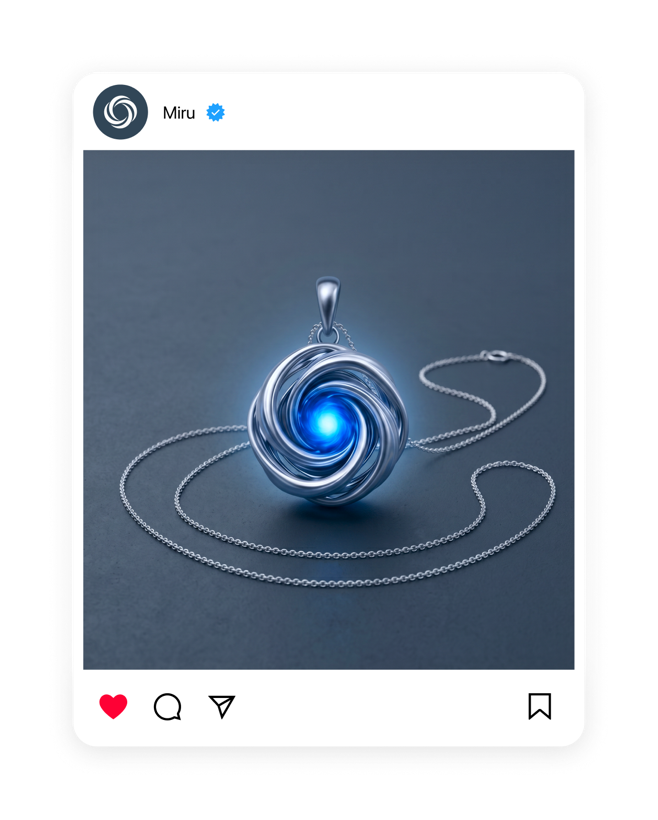
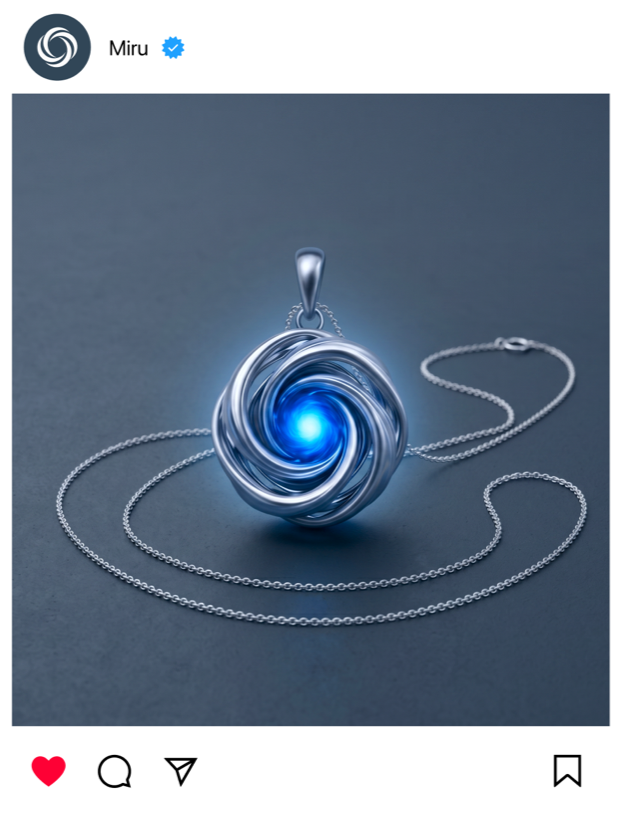
Miru fan: softer layered shadow, smoother transform-only animation
Re-export cards without the baked Figma shadow; add a soft two-layer CSS
drop-shadow that follows the rounded shape and lifts on hover. Animate via
transform (cqw/cqh offsets) for GPU-smooth motion with a staggered cascade.

diff --git a/styles.css b/styles.css
@@ -1585,11 +1585,12 @@ textarea:focus-visible {
 @keyframes mlogo-spin { from { transform: rotate(0); } to { transform: rotate(360deg); } }
 @media (prefers-reduced-motion: reduce) { .mlogo__mark { animation: none; } }
 
-/* ===== Miru: веер постов — при наведении раскладывается в ряд ===== */
+/* ===== Miru: веер постов — при наведении плавно раскладывается в ряд ===== */
 .fan {
   position: relative;
   margin-top: clamp(28px, 4vw, 48px);
   aspect-ratio: 1872 / 1219;
+  container-type: size; /* для cqw/cqh — сдвиги относительно блока */
 }
 .fan__frame {
   position: absolute; inset: 0; width: 100%; height: 100%;
@@ -1597,25 +1598,41 @@ textarea:focus-visible {
 }
 .fan__card {
   position: absolute;
-  width: 33.6%; height: 64.32%;
+  left: 50%; top: 50%;
+  width: 26.11%; height: 52.82%;
   transform-origin: 50% 50%;
-  transition: left 0.7s var(--ease), top 0.7s var(--ease), transform 0.7s var(--ease);
-  will-change: left, top, transform;
+  /* мягкая многослойная тень, повторяющая скруглённую форму карточки */
+  filter:
+    drop-shadow(0 1px 3px rgba(22, 32, 48, 0.10))
+    drop-shadow(0 16px 34px rgba(22, 32, 48, 0.20));
+  /* анимируем только transform и filter — максимально плавно (GPU) */
+  transition: transform 0.9s var(--ease), filter 0.9s var(--ease);
+  will-change: transform, filter;
 }
-/* исходный веер (как в макете): -15° / 0° / +15°, со смещением */
-.fan__card--a { left: 40.19%; top: 50%; transform: translate(-50%, -50%) rotate(-15deg); z-index: 1; }
-.fan__card--b { left: 49.98%; top: 50%; transform: translate(-50%, -50%) rotate(0deg); z-index: 2; }
-.fan__card--c { left: 59.53%; top: 57.19%; transform: translate(-50%, -50%) rotate(15deg); z-index: 3; }
-/* наведение → ровный ряд */
+/* исходный веер (как в макете): -15° / 0° / +15°, со смещением от центра */
+.fan__card--a { transform: translate(calc(-50% - 9.81cqw), -50%) rotate(-15deg); z-index: 1; }
+.fan__card--b { transform: translate(-50%, -50%) rotate(0deg); z-index: 2; }
+.fan__card--c { transform: translate(calc(-50% + 9.53cqw), calc(-50% + 7.19cqh)) rotate(15deg); z-index: 3; }
+/* наведение → ровный ряд, карточки чуть «приподнимаются» (глубже тень) */
+.fan:hover .fan__card,
+.fan:focus-within .fan__card {
+  filter:
+    drop-shadow(0 3px 8px rgba(22, 32, 48, 0.12))
+    drop-shadow(0 26px 56px rgba(22, 32, 48, 0.24));
+}
 .fan:hover .fan__card--a,
-.fan:focus-within .fan__card--a { left: 20%; top: 50%; transform: translate(-50%, -50%) rotate(0deg); }
+.fan:focus-within .fan__card--a { transform: translate(calc(-50% - 30cqw), -50%) rotate(0deg); }
 .fan:hover .fan__card--b,
-.fan:focus-within .fan__card--b { left: 50%; top: 50%; transform: translate(-50%, -50%) rotate(0deg); }
+.fan:focus-within .fan__card--b { transform: translate(-50%, -50%) rotate(0deg); }
 .fan:hover .fan__card--c,
-.fan:focus-within .fan__card--c { left: 80%; top: 50%; transform: translate(-50%, -50%) rotate(0deg); }
-/* лёгкий стаггер при раскладке */
-.fan:hover .fan__card--b { transition-delay: 0.04s; }
-.fan:hover .fan__card--c { transition-delay: 0.08s; }
+.fan:focus-within .fan__card--c { transform: translate(calc(-50% + 30cqw), -50%) rotate(0deg); }
+/* текучий стаггер при раскладке и сборке */
+.fan__card--a { transition-delay: 0.12s; }
+.fan__card--b { transition-delay: 0.06s; }
+.fan__card--c { transition-delay: 0s; }
+.fan:hover .fan__card--a, .fan:focus-within .fan__card--a { transition-delay: 0s; }
+.fan:hover .fan__card--b, .fan:focus-within .fan__card--b { transition-delay: 0.06s; }
+.fan:hover .fan__card--c, .fan:focus-within .fan__card--c { transition-delay: 0.12s; }
 @media (prefers-reduced-motion: reduce) { .fan__card { transition: none; } }
 
 /* Выраженная анимация появления блока на экране (всплытие + зум + фейд) */

diff --git a/case.js b/case.js
@@ -512,9 +512,9 @@
         if (b.fan)
           return '<div class="fan reveal" role="group" aria-label="Miru — посты в Instagram (наведите, чтобы разложить в ряд)">' +
             '<img class="fan__frame" src="assets/miru-fan-frame.svg?v=1" alt="" aria-hidden="true" />' +
-            '<img class="fan__card fan__card--a" src="assets/miru-fan-a.png" alt="Miru — пост в Instagram" loading="lazy" />' +
-            '<img class="fan__card fan__card--b" src="assets/miru-fan-b.png" alt="Miru — пост в Instagram" loading="lazy" />' +
-            '<img class="fan__card fan__card--c" src="assets/miru-fan-c.png" alt="Miru — пост в Instagram" loading="lazy" />' +
+            '<img class="fan__card fan__card--a" src="assets/miru-fan-a.png?v=2" alt="Miru — пост в Instagram" loading="lazy" />' +
+            '<img class="fan__card fan__card--b" src="assets/miru-fan-b.png?v=2" alt="Miru — пост в Instagram" loading="lazy" />' +
+            '<img class="fan__card fan__card--c" src="assets/miru-fan-c.png?v=2" alt="Miru — пост в Instagram" loading="lazy" />' +
             "</div>";
         if (b.mirulogo)
           return '<div class="mlogo reveal" role="img" aria-label="MIRU — эмпатия как украшение">' +

diff --git a/case.html b/case.html
@@ -10,7 +10,7 @@
   <link href="https://fonts.googleapis.com/css2?family=Inter:wght@400;500;600&family=Inter+Tight:wght@500;600;700&display=swap" rel="stylesheet" />
   <!-- Шрифты страницы кейса — как в референсе pamidordesign.co/work/rise -->
   <link href="https://fonts.googleapis.com/css2?family=Archivo:wght@500;600&family=Funnel+Display:wght@400;500;600&family=Space+Grotesk:wght@500;600;700&display=swap" rel="stylesheet" />
-  <link rel="stylesheet" href="styles.css?v=54" />
+  <link rel="stylesheet" href="styles.css?v=55" />
 </head>
 <body class="is-case">
   <a class="skip-link" href="#case-root">К содержанию</a>
@@ -41,7 +41,7 @@
 
   <script src="https://cdn.jsdelivr.net/npm/lenis@1.1.14/dist/lenis.min.js"></script>
   <script src="projects.js?v=66"></script>
-  <script src="case.js?v=33"></script>
+  <script src="case.js?v=34"></script>
   <script src="script.js?v=16"></script>
 </body>
 </html>
